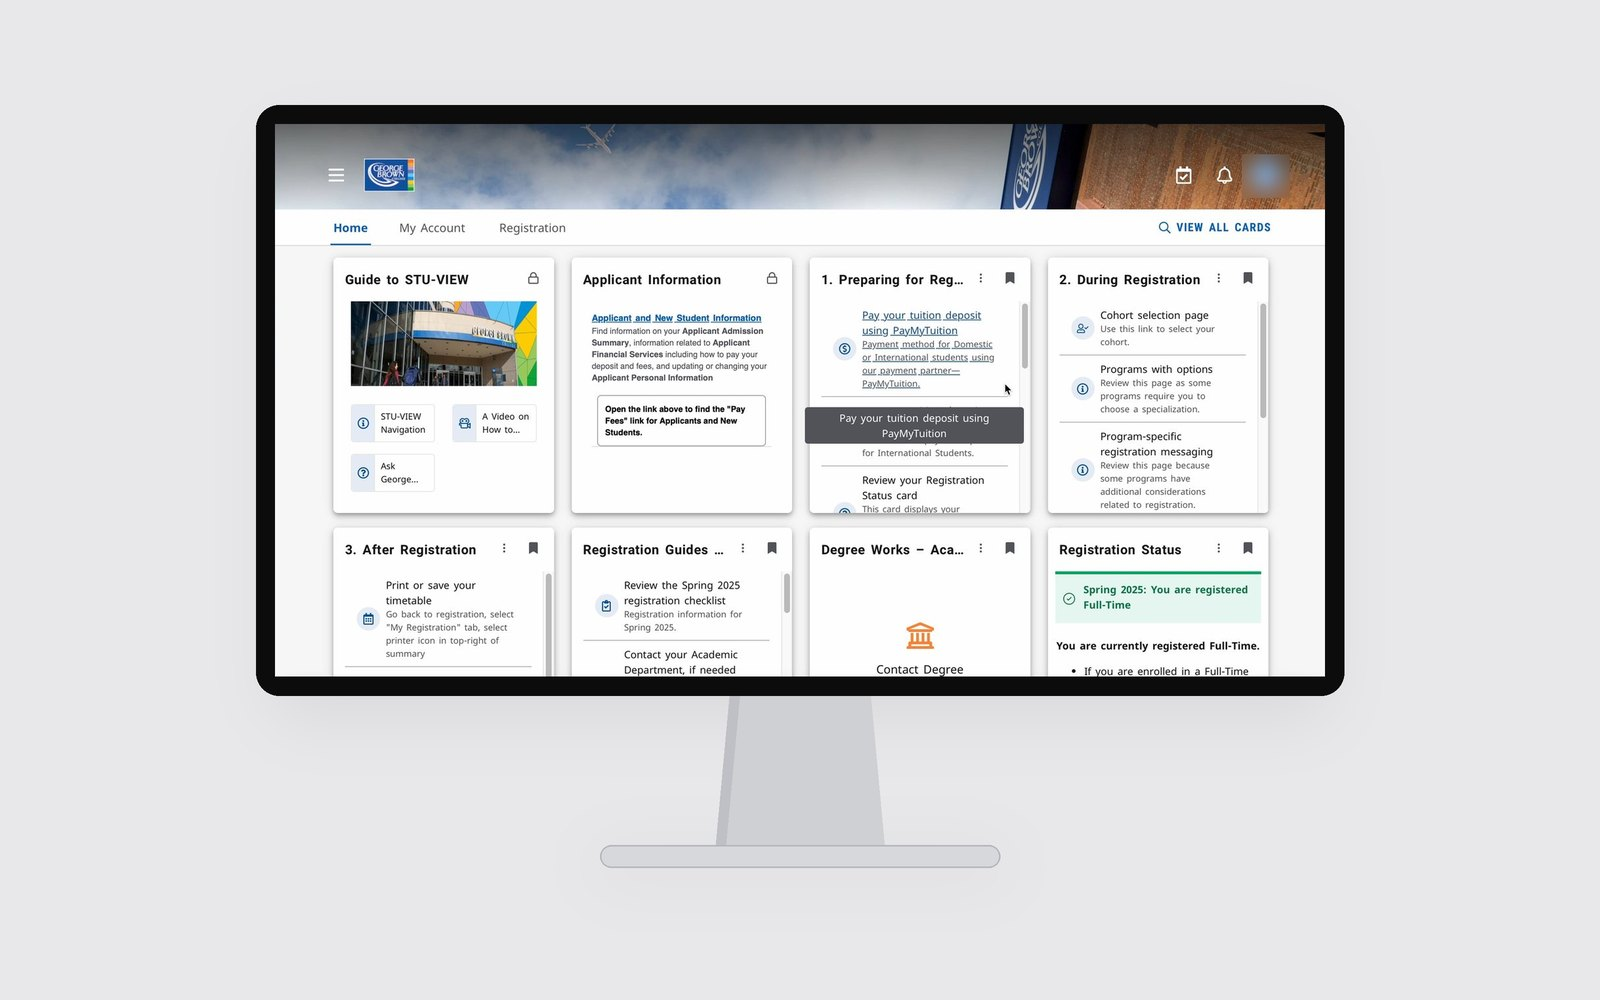
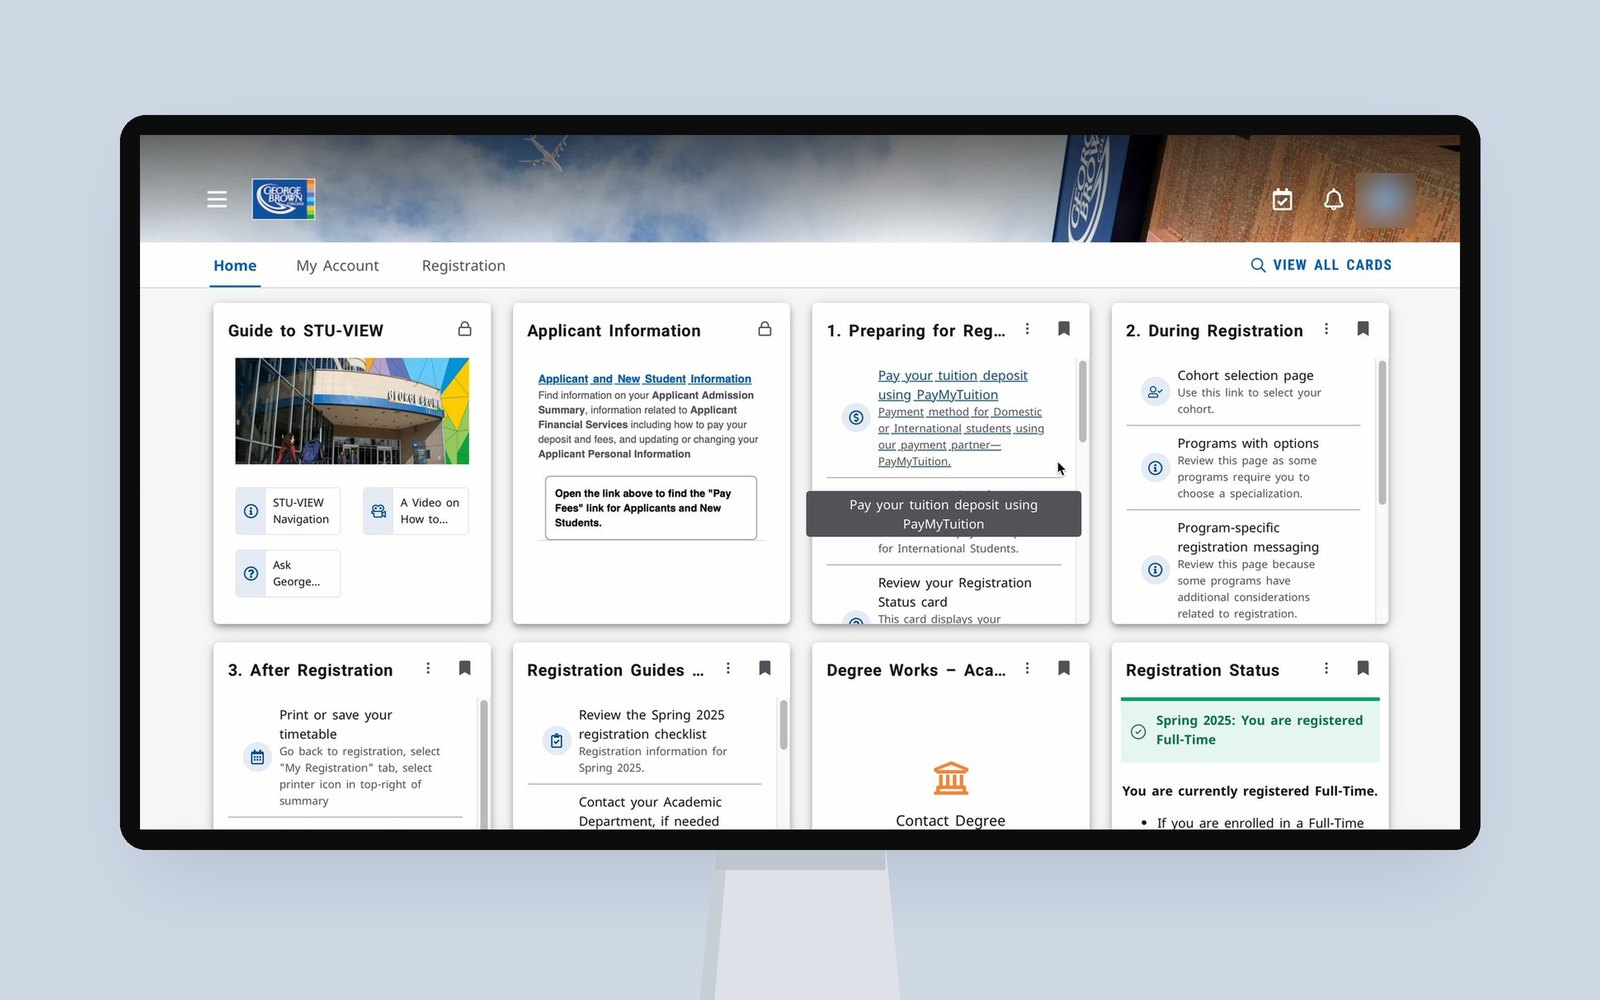
Closer blue-gray Stu-View thumbnail, drop school line from Shleep

diff --git a/index.html b/index.html
@@ -708,7 +708,7 @@ html.hascur a[data-copy]{cursor:none!important}
         <div class="cs-meta">
           <div><p class="k">Role</p><p class="v">UI design</p></div>
           <div><p class="k">Team</p><p class="v">Team of 4 with Sabrina Huffman, Shivalika Reddy, Rebecca Parvaneh</p></div>
-          <div><p class="k">Event</p><p class="v">FigBuild 2026<br>George Brown &amp; <span style="white-space:nowrap">OCAD U</span></p></div>
+          <div><p class="k">Event</p><p class="v">FigBuild 2026</p></div>
           <div><p class="k">Type</p><p class="v">Speculative concept<br>iOS app</p></div>
         </div>
       </div>
